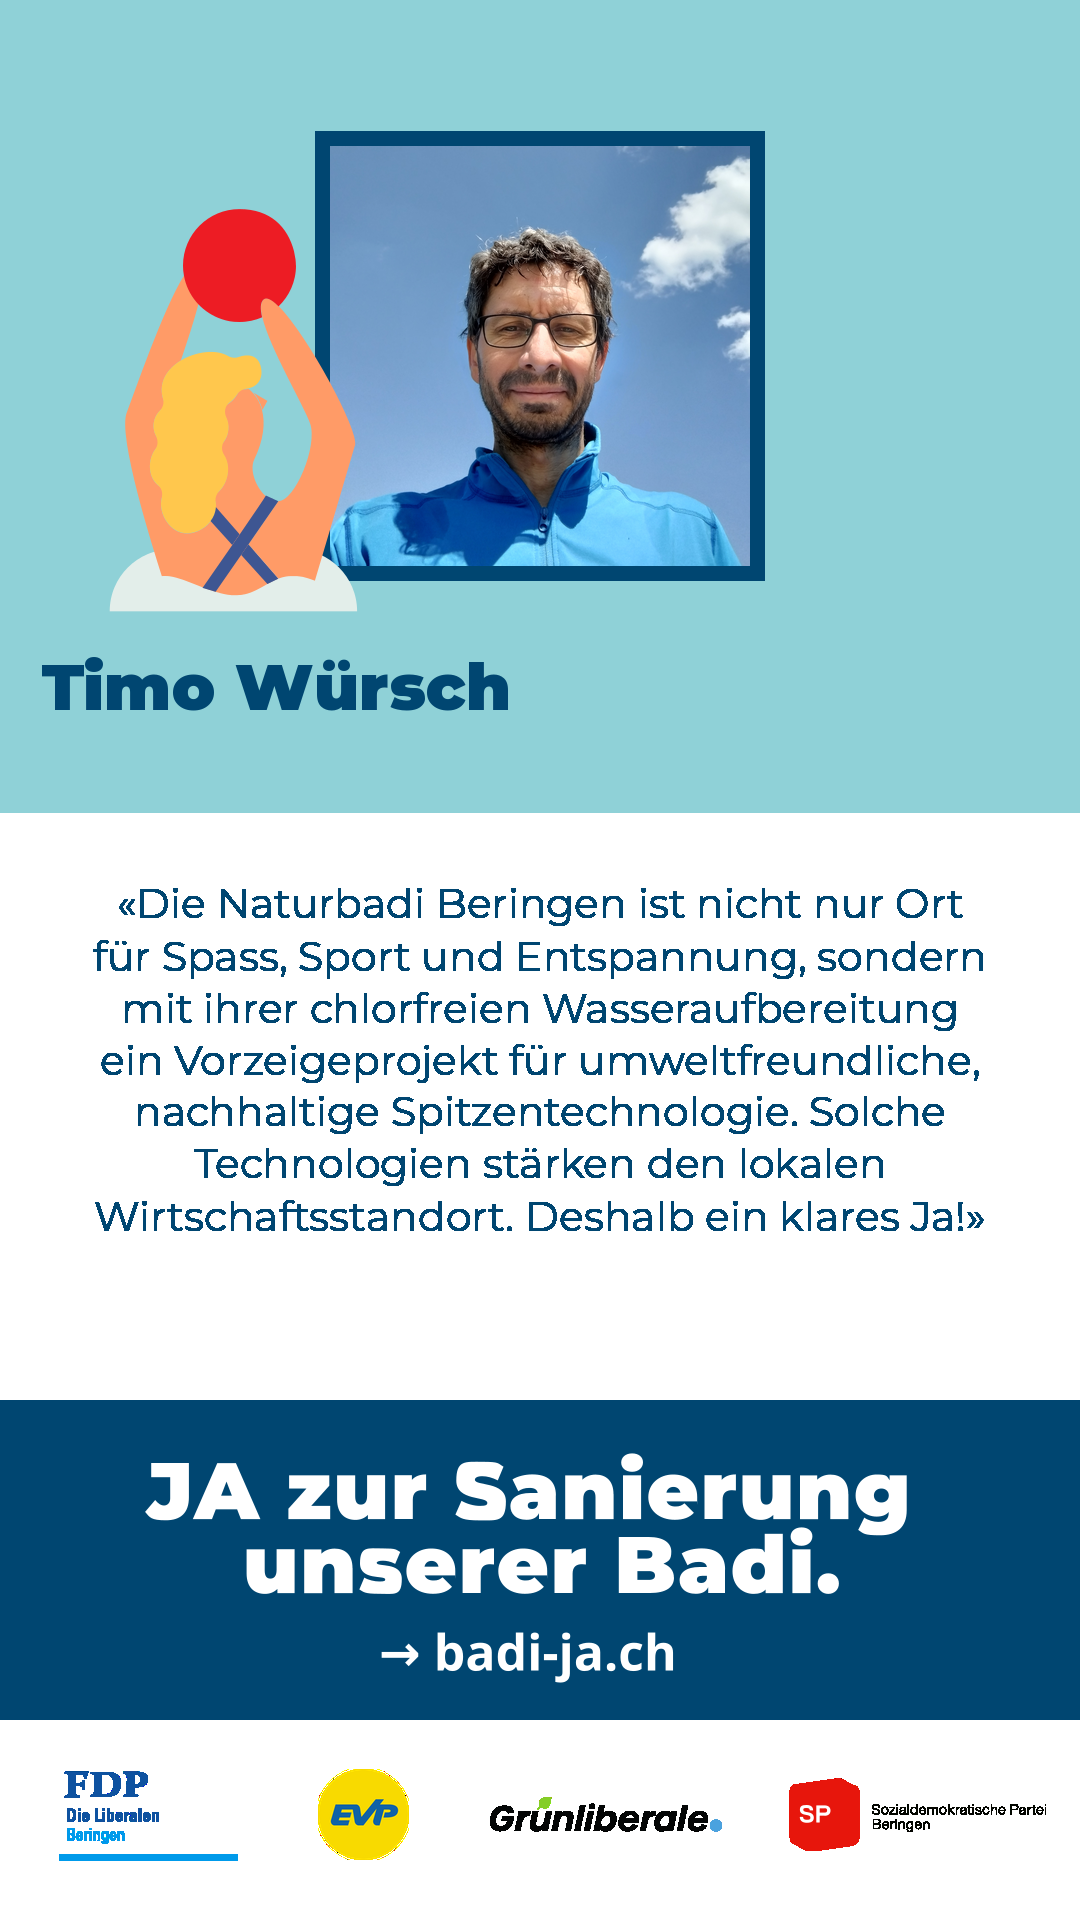
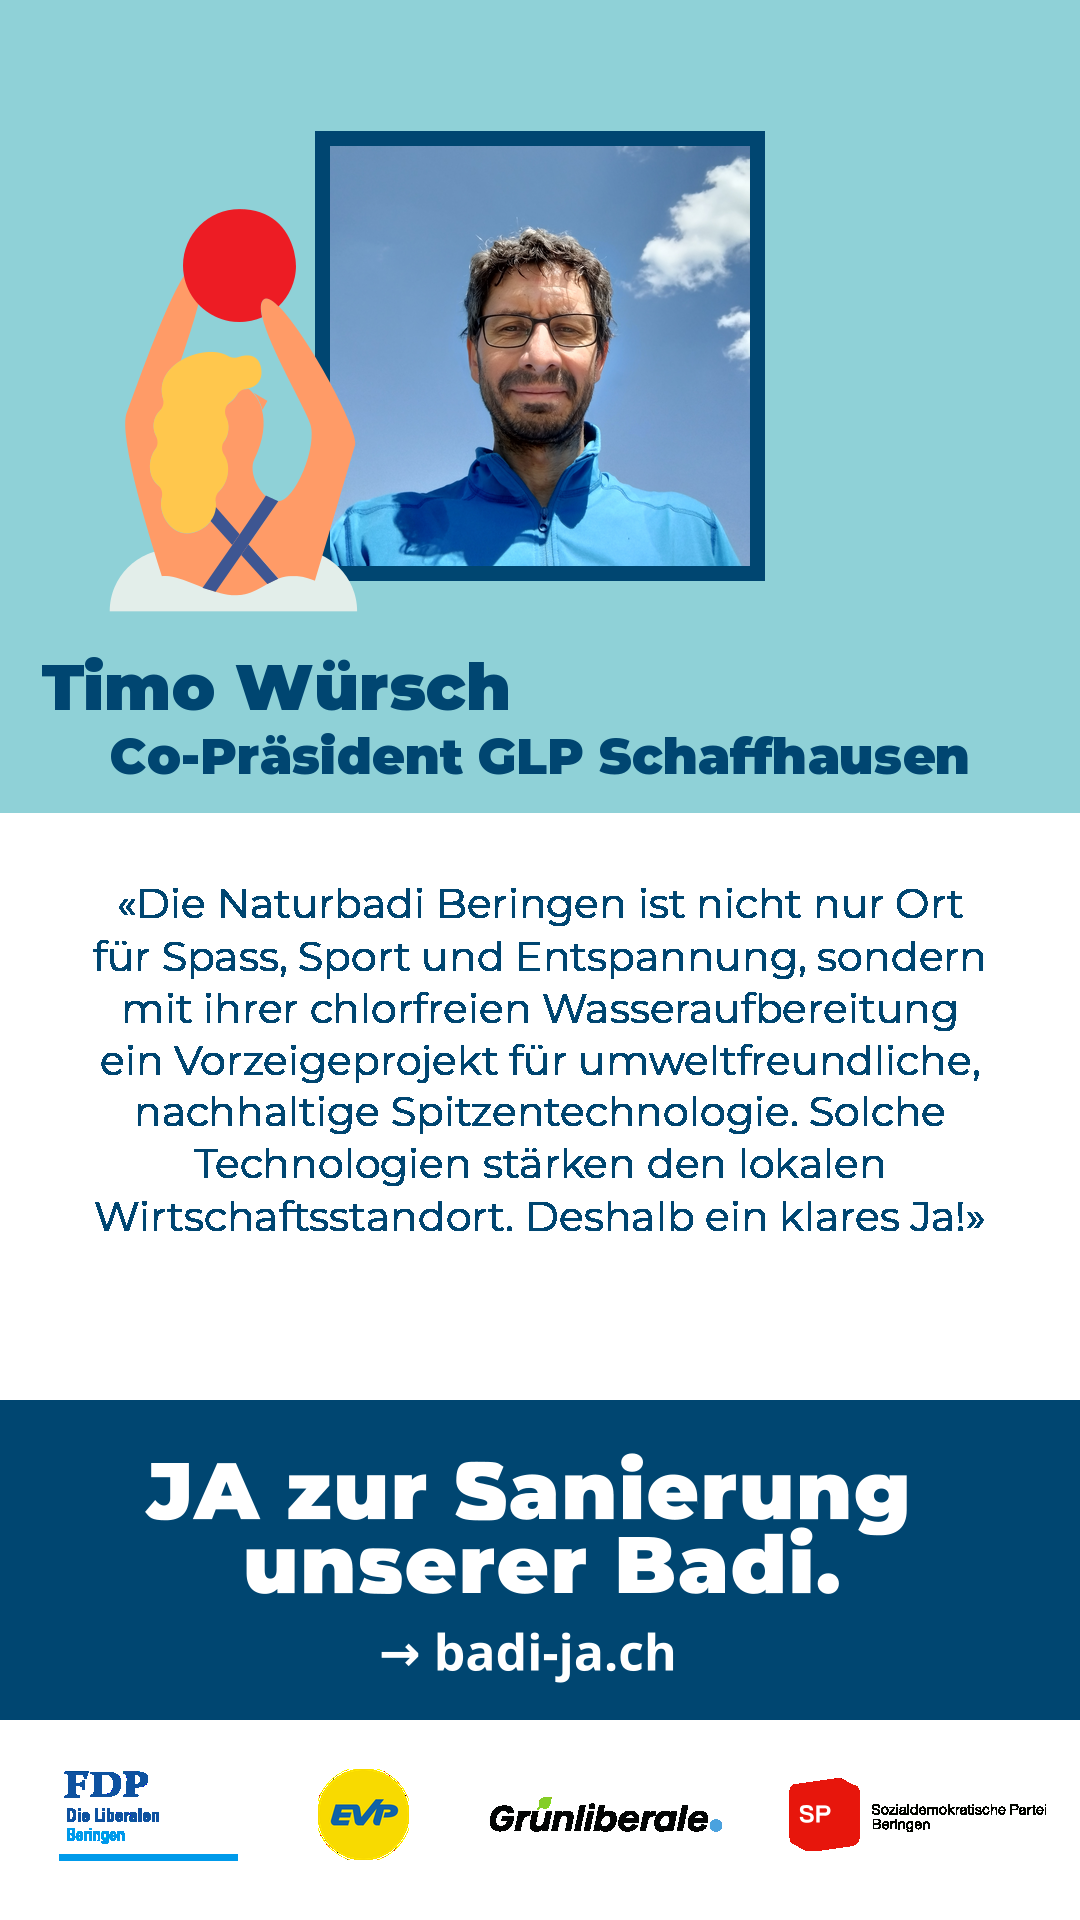
Add roll of Timo Würsch

Changed region(s): [[0.0917, 0.375, 0.9167, 0.4062]]

diff --git a/site/index.html b/site/index.html
@@ -485,6 +485,7 @@
             </blockquote>
             <figcaption>
               <cite>Timo Würsch</cite>
+              <span>Co-Präsident GLP Schaffhausen</span>
               <button class="statement-card__share" type="button" data-share-image="assets/social/statement-timo-wuersch.png"
                 data-share-name="Timo Würsch"
                 data-share-text="Die Naturbadi Beringen ist nicht nur Ort für Spass, Sport und Entspannung, sondern mit ihrer chlorfreien Wasseraufbereitung ein Vorzeigeprojekt für umweltfreundliche, nachhaltige Spitzentechnologie. Solche Technologien stärken den lokalen Wirtschaftsstandort. Deshalb ein klares Ja!"

diff --git a/scripts/generate_social_posts.py b/scripts/generate_social_posts.py
@@ -449,7 +449,7 @@ STATEMENTS = [
     dict(
         slug="timo-wuersch",
         name="Timo Würsch",
-        role="",
+        role="Co-Präsident GLP Schaffhausen",
         photo=STATEMENTS_DIR / "TimoWursch.jpg",
         focus=(0.5, 0.5),
         quote=(
